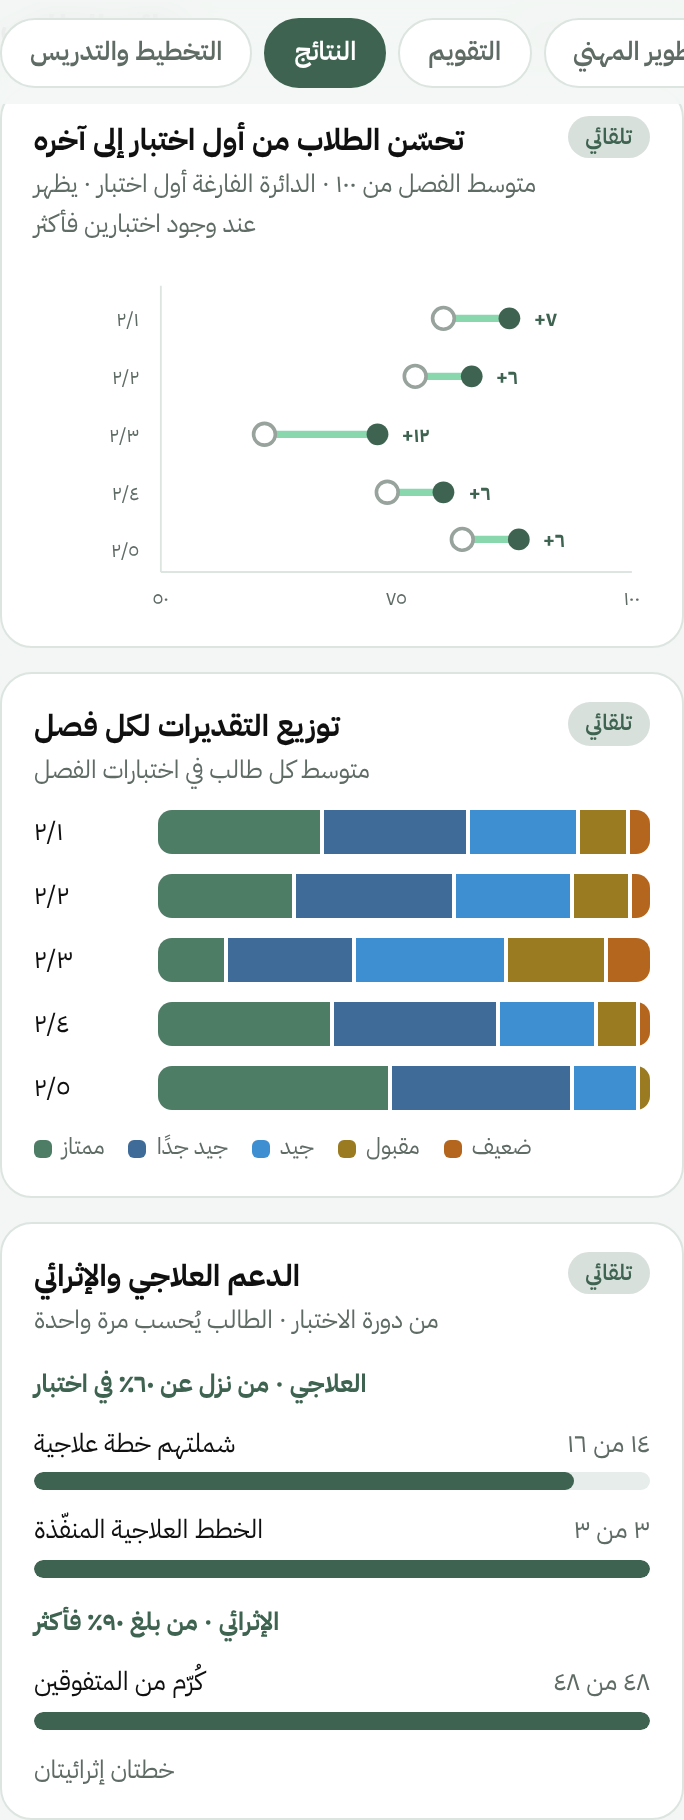
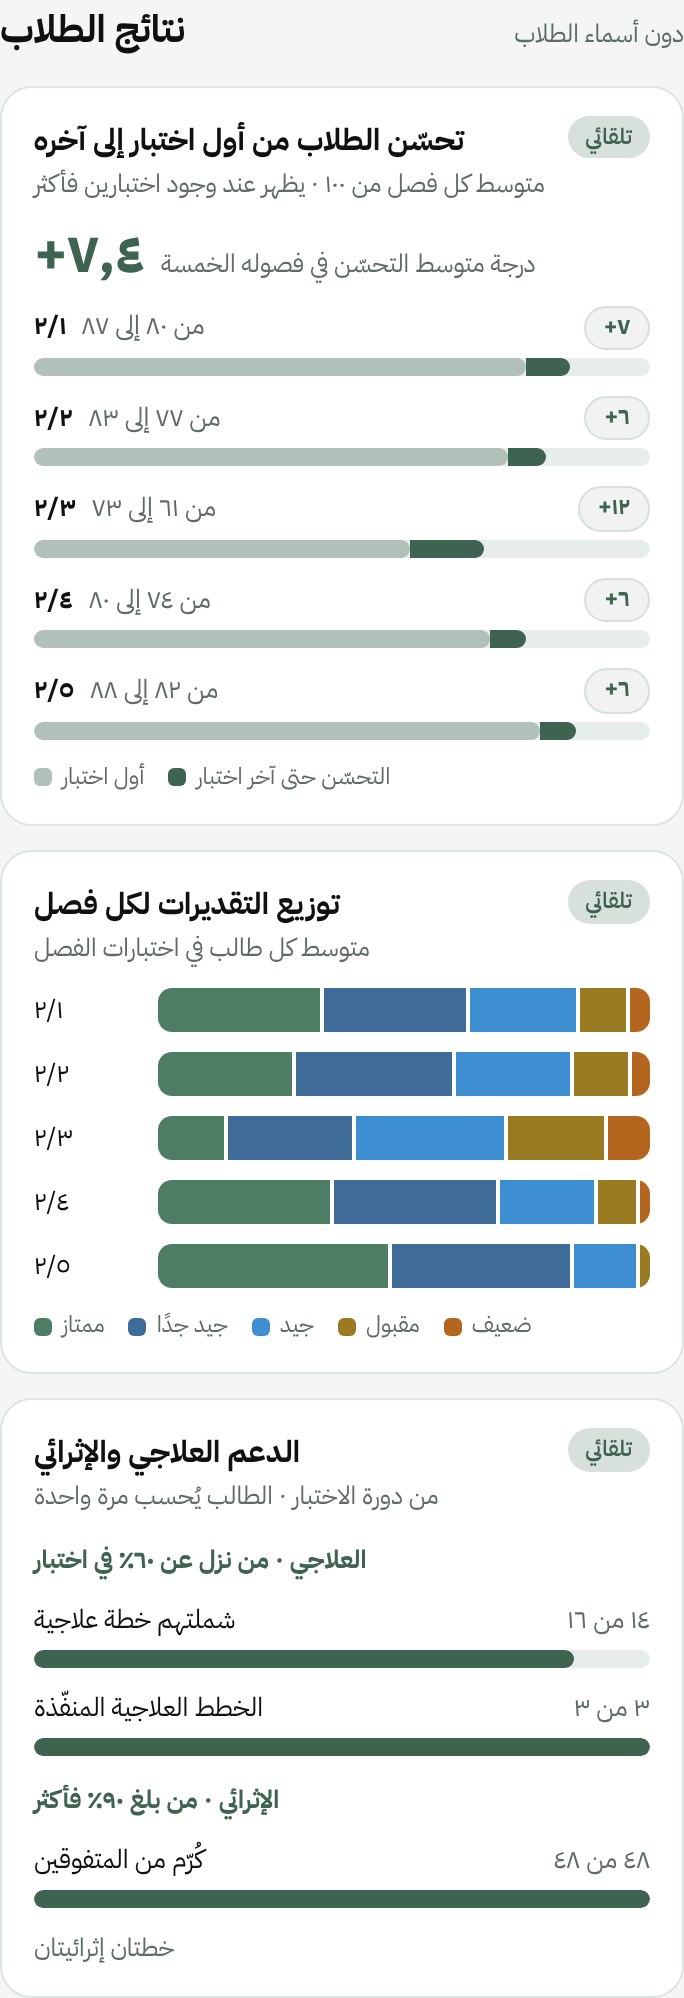
ملف المعلم الرقمي: تحسّن الطلاب برقم إجمالي وشريط لكل فصل بدل المخطط النقطي
Claude-Session: https://claude.ai/code/session_01QzqWfYFyUodUKxUMNwYvZ2

diff --git a/docs/teacher-digital-file/prototype.html b/docs/teacher-digital-file/prototype.html
@@ -215,6 +215,18 @@ section.sec { display: grid; gap: 12px; scroll-margin-top: 64px; }
 .chart .link { stroke: var(--mint); stroke-width: 4; stroke-linecap: round; }
 .chart .gain { fill: var(--deep); font-weight: 700; direction: ltr; unicode-bidi: plaintext; }
 
+/* تحسّن الطلاب: رقم إجمالي ثم سطر لكل فصل */
+.imp-sum { display: flex; align-items: baseline; gap: 8px; flex-wrap: wrap; }
+.imp-sum .v { font-size: 28px; font-weight: 700; color: var(--deep); line-height: 1.1; direction: ltr; unicode-bidi: plaintext; }
+.imp { display: grid; gap: 10px; --base: color-mix(in srgb, var(--deep) 32%, var(--track)); }
+.imp-r { display: grid; gap: 4px; }
+.imp-t { display: flex; align-items: center; gap: 8px; font-size: 13px; }
+.imp-t span:first-of-type { flex: 1; color: var(--muted); }
+.imp-t .delta { direction: ltr; unicode-bidi: plaintext; }
+.imp-k .fill { position: absolute; inset-block: 0; inset-inline-start: 0; }
+.gainf { position: absolute; inset-block: 0; background: var(--deep); border-radius: 0 6px 6px 0; }
+.anim .imp-k .fill { animation: none; }
+
 /* الخط الزمني */
 .tl { list-style: none; margin: 0; padding: 0; display: grid; gap: 0; }
 .tl li { display: grid; grid-template-columns: 18px minmax(0,1fr); gap: 10px; position: relative; padding-bottom: 14px; }
@@ -535,18 +547,16 @@ section.sec { display: grid; gap: 12px; scroll-margin-top: 64px; }
   <section class="sec anim" id="results">
     <div class="sec-h"><h2>نتائج الطلاب</h2><p>دون أسماء الطلاب</p></div>
     <div class="card">
-      <div class="card-h"><div><h3>تحسّن الطلاب من أول اختبار إلى آخره</h3><p class="sub">متوسط الفصل من ١٠٠ · الدائرة الفارغة أول اختبار · يظهر عند وجود اختبارين فأكثر</p></div><span class="src auto">تلقائي</span></div>
-      <svg class="chart" viewBox="0 0 340 196" role="img" aria-label="متوسطات الفصول قبل وبعد">
-        <line class="axis" x1="70" y1="12" x2="70" y2="170"/>
-        <g class="axis"><line x1="70" y1="170" x2="330" y2="170"/></g>
-        <text x="70" y="188" text-anchor="middle">٥٠</text><text x="200" y="188" text-anchor="middle">٧٥</text><text x="330" y="188" text-anchor="middle">١٠٠</text>
-        <!-- السلّم: 50 → x=70 ، 100 → x=330 ، أي 5.2 لكل درجة -->
-        <g><text x="58" y="34" text-anchor="end">٢/١</text><line class="link" x1="226" y1="30" x2="262.4" y2="30"/><circle class="before" cx="226" cy="30" r="6"/><circle class="after" cx="262.4" cy="30" r="6"/><text class="gain" x="276" y="34">+٧</text></g>
-        <g><text x="58" y="66" text-anchor="end">٢/٢</text><line class="link" x1="210.4" y1="62" x2="241.6" y2="62"/><circle class="before" cx="210.4" cy="62" r="6"/><circle class="after" cx="241.6" cy="62" r="6"/><text class="gain" x="255" y="66">+٦</text></g>
-        <g><text x="58" y="98" text-anchor="end">٢/٣</text><line class="link" x1="127.2" y1="94" x2="189.6" y2="94"/><circle class="before" cx="127.2" cy="94" r="6"/><circle class="after" cx="189.6" cy="94" r="6"/><text class="gain" x="203" y="98">+١٢</text></g>
-        <g><text x="58" y="130" text-anchor="end">٢/٤</text><line class="link" x1="195" y1="126" x2="226" y2="126"/><circle class="before" cx="195" cy="126" r="6"/><circle class="after" cx="226" cy="126" r="6"/><text class="gain" x="240" y="130">+٦</text></g>
-        <g><text x="58" y="162" text-anchor="end">٢/٥</text><line class="link" x1="236.4" y1="152" x2="267.6" y2="152"/><circle class="before" cx="236.4" cy="152" r="6"/><circle class="after" cx="267.6" cy="152" r="6"/><text class="gain" x="281" y="156">+٦</text></g>
-      </svg>
+      <div class="card-h"><div><h3>تحسّن الطلاب من أول اختبار إلى آخره</h3><p class="sub">متوسط كل فصل من ١٠٠ · يظهر عند وجود اختبارين فأكثر</p></div><span class="src auto">تلقائي</span></div>
+      <div class="imp-sum"><span class="v num">+٧٫٤</span><span class="sub">درجة متوسط التحسّن في فصوله الخمسة</span></div>
+      <div class="imp">
+        <div class="imp-r"><div class="imp-t"><b>٢/١</b><span class="num">من ٨٠ إلى ٨٧</span><span class="delta num">+٧</span></div><div class="track imp-k"><div class="fill" style="width:80%;background:var(--base)"></div><div class="gainf" style="inset-inline-start:80%;width:7%"></div></div></div>
+        <div class="imp-r"><div class="imp-t"><b>٢/٢</b><span class="num">من ٧٧ إلى ٨٣</span><span class="delta num">+٦</span></div><div class="track imp-k"><div class="fill" style="width:77%;background:var(--base)"></div><div class="gainf" style="inset-inline-start:77%;width:6%"></div></div></div>
+        <div class="imp-r"><div class="imp-t"><b>٢/٣</b><span class="num">من ٦١ إلى ٧٣</span><span class="delta num">+١٢</span></div><div class="track imp-k"><div class="fill" style="width:61%;background:var(--base)"></div><div class="gainf" style="inset-inline-start:61%;width:12%"></div></div></div>
+        <div class="imp-r"><div class="imp-t"><b>٢/٤</b><span class="num">من ٧٤ إلى ٨٠</span><span class="delta num">+٦</span></div><div class="track imp-k"><div class="fill" style="width:74%;background:var(--base)"></div><div class="gainf" style="inset-inline-start:74%;width:6%"></div></div></div>
+        <div class="imp-r"><div class="imp-t"><b>٢/٥</b><span class="num">من ٨٢ إلى ٨٨</span><span class="delta num">+٦</span></div><div class="track imp-k"><div class="fill" style="width:82%;background:var(--base)"></div><div class="gainf" style="inset-inline-start:82%;width:6%"></div></div></div>
+        <div class="keys"><span><i style="background:var(--base)"></i>أول اختبار</span><span><i style="background:var(--deep)"></i>التحسّن حتى آخر اختبار</span></div>
+      </div>
     </div>
     <div class="grid2">
       <div class="card">
